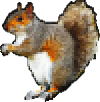
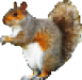
Giraffe, plankton, squirrel and arctic textureupdate

diff --git a/sfml_resources.h b/sfml_resources.h
@@ -149,7 +149,7 @@ private:
   sf::Texture m_zen_title;
 
   sf::Texture m_arctic_laying;
-  sf::Texture m_arctic_standing;
+  sf::Texture m_arctic;
 
   sf::Texture m_beach_laying;
   sf::Texture m_beach_standing;
